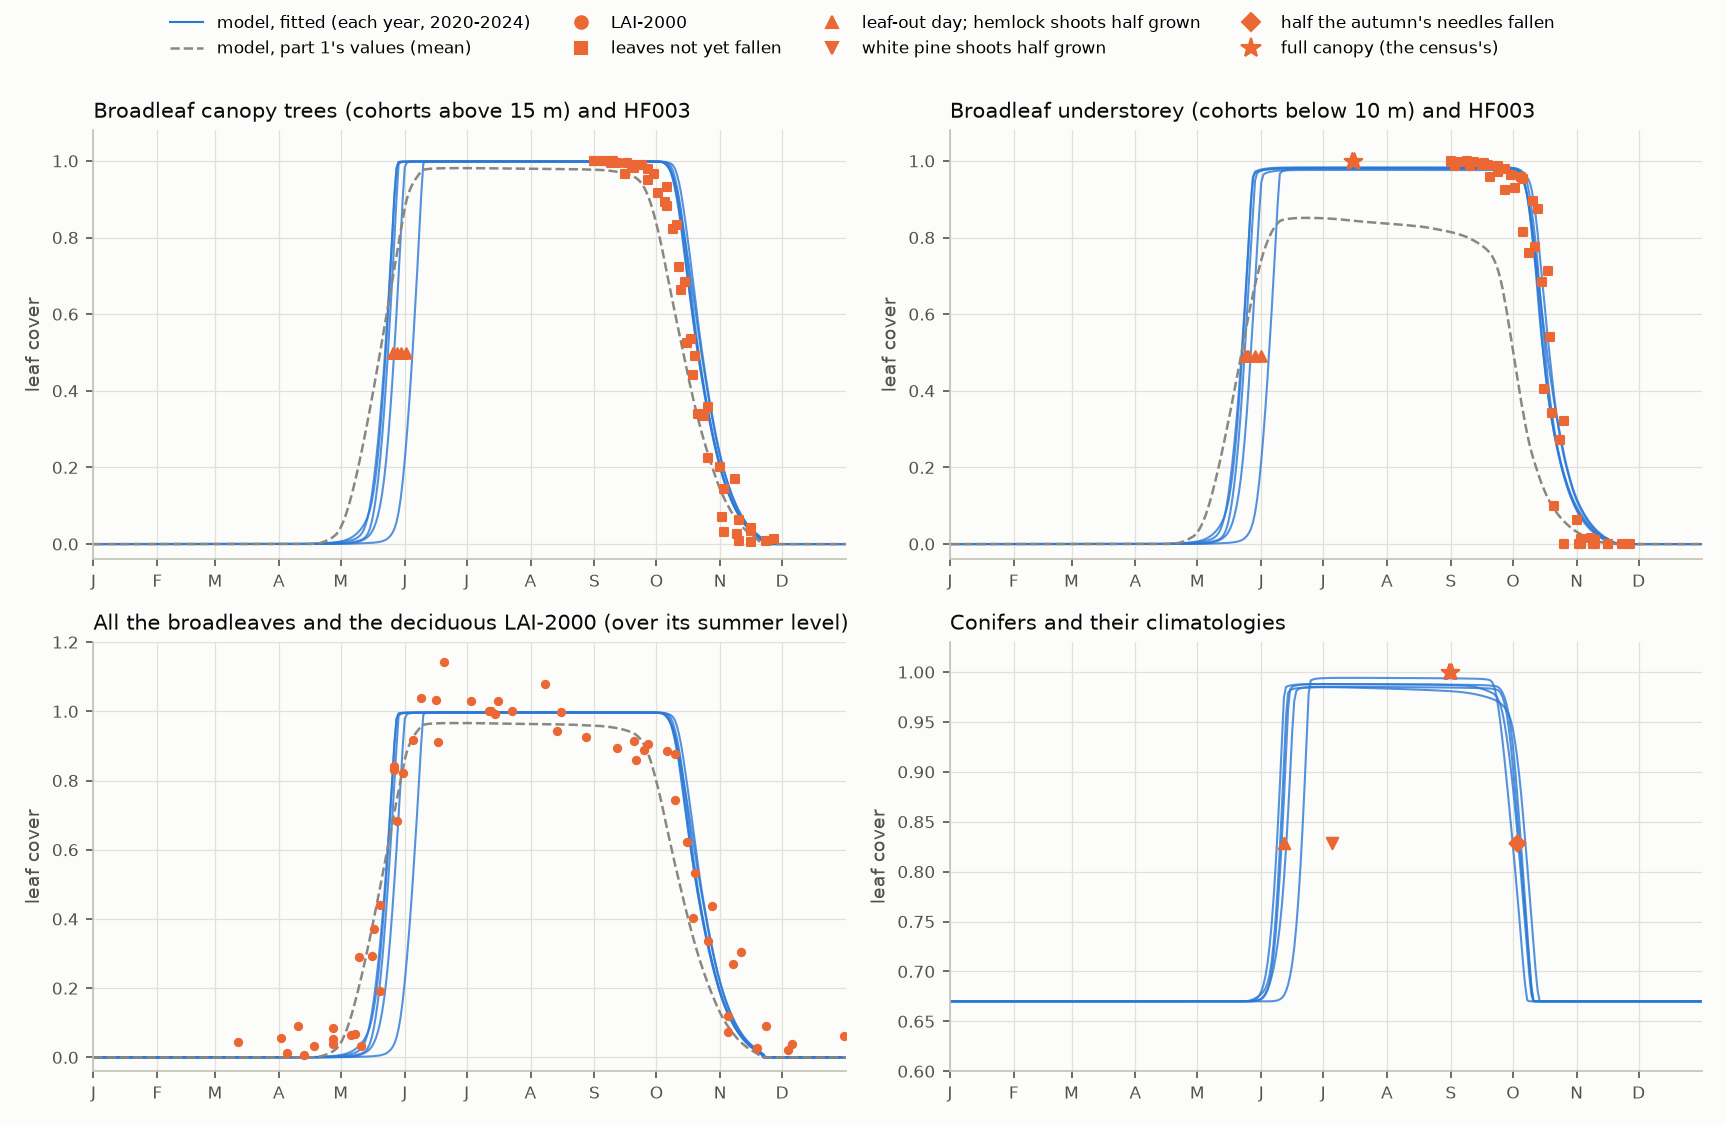
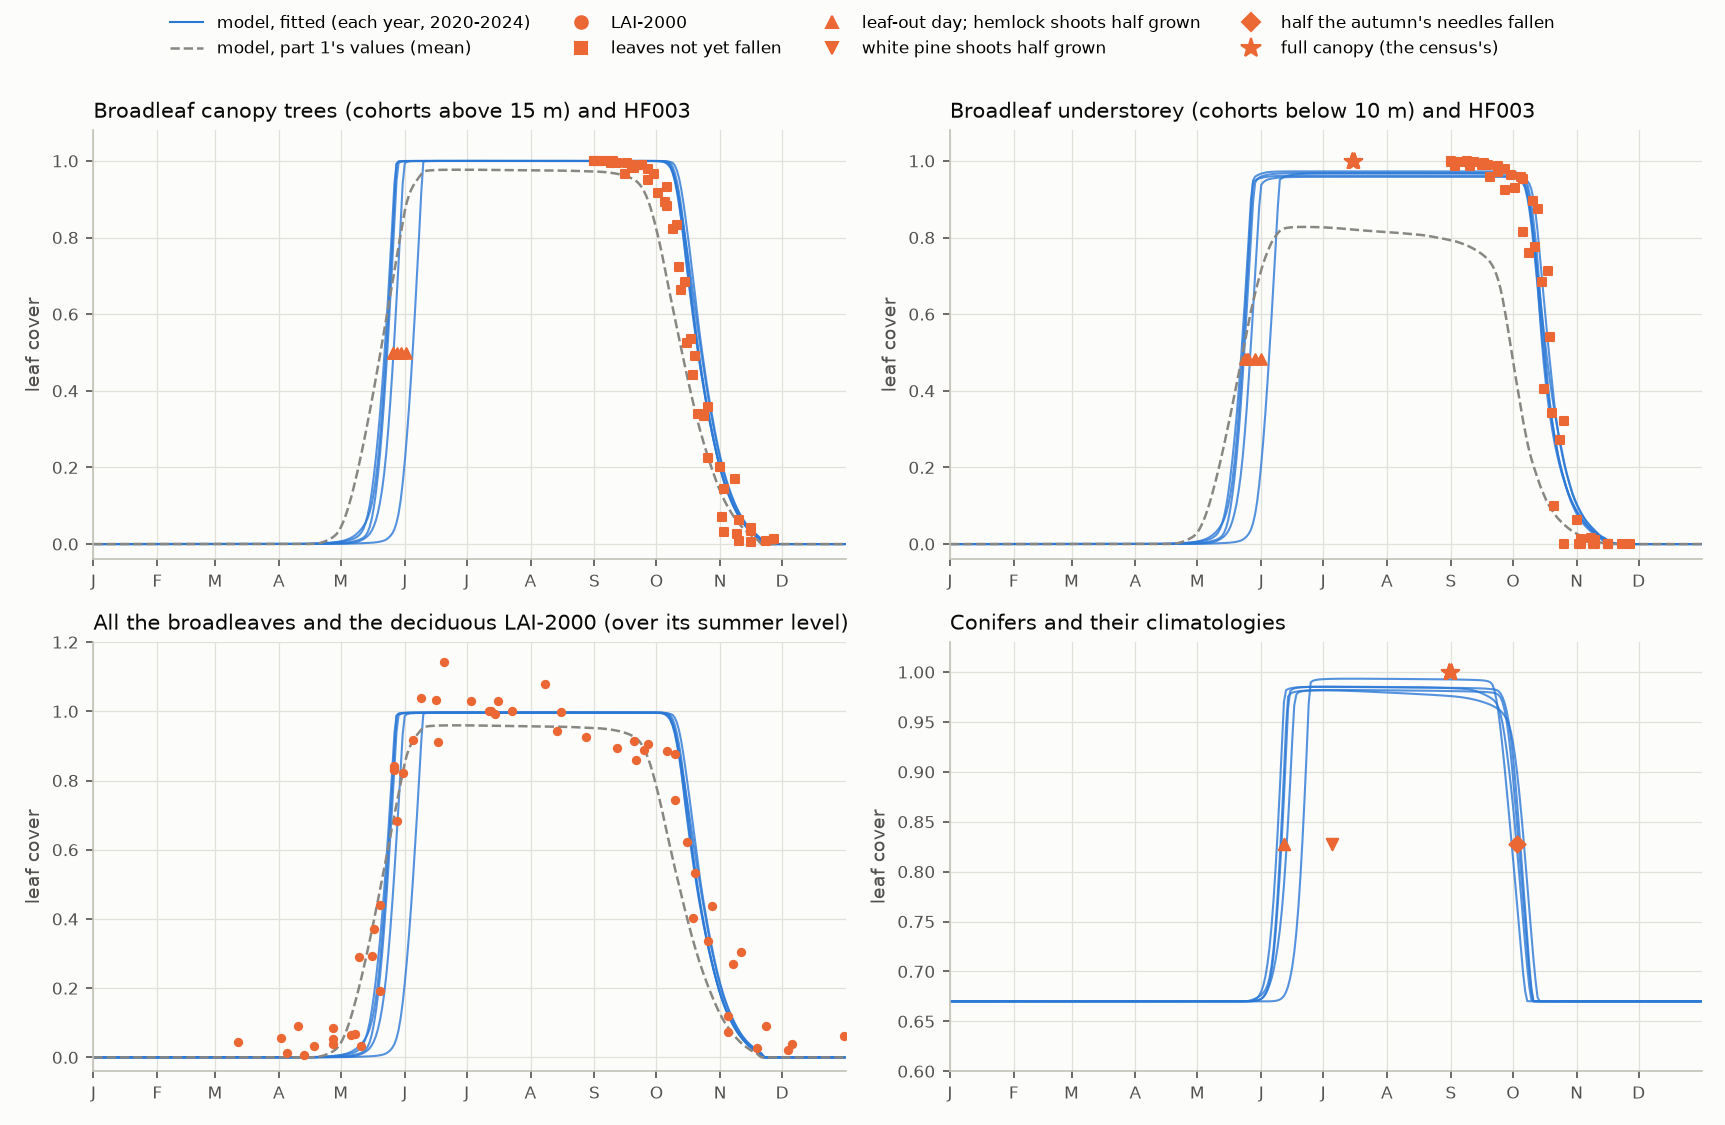
docs(examples): example 02's Harvard stand refit with the ground's surface layers
Part 2 refit on example 04's Harvard stand as the head builds it (the census's lumped trees, example 07's
new lai_b1 and clumping) with scripts/calibrate_phenology, dev build: from the shipped values the coupled
run scores 9.34; four fits move the keys by 0.49, 0.18, 0.09 and 0.12 of their ranges, so the fit does not
settle and the tool keeps the values whose own run scored best (the third, 9.23). The broadleaves flush at
260 K day (264 before) and drop at 185 K day below 292.1 K (169 below 292.0); the conifers lose 0.018 of
their needles a year while flushing (0.0025). The targets move by at most 0.01 of the canopy or 0.4 days.
Example 04's Harvard PFT file carries the values.

Parts 1 and 3 are not changed: part 1 runs the kernel alone (bit for bit, beta against this head), and
part 3's fit stops at its closure check (the grass at the fourth fit's values; README unchanged).

diff --git a/examples/example02_canopy_phenology/README.md b/examples/example02_canopy_phenology/README.md
@@ -130,9 +130,8 @@ python ../../../scripts/calibrate_phenology/calibrate_phenology.py iterate \
 python plot_fit.py                       # harvard_stand.png
 ```
 
-A round is a coupled run of the stand (about 5 minutes) and an offline fit (10–15 minutes) on one
-40-core node. From example 04's values the fit settles in two rounds (31 minutes); from part 1's it
-takes four, about an hour. The fit writes example 04's PFT file with its values to
+A round is a coupled run of the stand (about 5 minutes) and an offline fit (13–15 minutes) on one
+40-core node; from example 04's values the four rounds take 72 minutes. The fit writes example 04's PFT file with its values to
 `../data/harvard_stand_runs/pft_parameters_fitted.toml`; example 04's file carries them.
 
 ### What is fitted
@@ -152,30 +151,32 @@ refill). The tool's README explains each.
 
 | target | cohorts | model − observed (RMSE) |
 |---|---|---|
-| HF003, leaf-out day of the canopy species | broadleaves above 15 m | −2.2 days (3.8) |
-| HF003, leaf-out day of the understorey species | broadleaves below 10 m | −0.5 days (2.5) |
-| HF003, leaves fallen, canopy species | broadleaves above 15 m | −0.06 of the canopy (0.09) |
-| HF003, leaves fallen, understorey species | broadleaves below 10 m | −0.02 (0.07) |
-| full in mid-July | broadleaves below 10 m | −0.02 |
-| LAI-2000, deciduous, over its summer level | all broadleaves | −0.03 (0.13) |
-| EMS baskets, share of the autumn's litter | all broadleaves | +0.06 (0.10) |
+| HF003, leaf-out day of the canopy species | broadleaves above 15 m | −2.3 days (3.9) |
+| HF003, leaf-out day of the understorey species | broadleaves below 10 m | −0.6 days (2.5) |
+| HF003, leaves fallen, canopy species | broadleaves above 15 m | −0.07 of the canopy (0.10) |
+| HF003, leaves fallen, understorey species | broadleaves below 10 m | −0.03 (0.07) |
+| full in mid-July | broadleaves below 10 m | −0.03 |
+| LAI-2000, deciduous, over its summer level | all broadleaves | −0.02 (0.14) |
+| EMS baskets, share of the autumn's litter | all broadleaves | +0.05 (0.09) |
 | canopies lost a year (1) | all broadleaves | +0.01 |
-| MODIS, scaled within each year | the whole stand | +0.05 (0.17) |
-| hemlock shoots half grown (day 163) | conifers | +0.9 days (4.4) |
-| white pine shoots half grown (day 186) | conifers | −22.4 days |
-| half the autumn's needles fallen (day 276) | conifers | +1.2 days (2.4) |
-| needles lost a year (0.35) | conifers | +0.00 |
-| full at the end of August | conifers | −0.01 |
+| MODIS, scaled within each year | the whole stand | +0.05 (0.18) |
+| hemlock shoots half grown (day 163) | conifers | +0.7 days (4.4) |
+| white pine shoots half grown (day 186) | conifers | −22.6 days |
+| half the autumn's needles fallen (day 276) | conifers | +0.8 days (2.2) |
+| needles lost a year (0.35) | conifers | +0.01 |
+| full at the end of August | conifers | −0.02 |
 
 - **The cohorts' own cues change the answer.** With part 1's values (the dashed lines), fitted to the
   site's air and the light above the canopy, the understorey fills only two thirds and falls two to
   three weeks early, because its light cue reads the fewer hours under the canopy. With the cohorts'
-  own cues, the broadleaves need more warmth to flush (264 against 92 K day above 5 °C) and more cold to
-  drop (169 K day below 292.0 K, against 48 below 290.3 K).
+  own cues, the broadleaves need more warmth to flush (260 against 92 K day above 5 °C) and more cold to
+  drop (185 K day below 292.1 K, against 48 below 290.3 K).
 - **The conifers** keep two thirds of their needles from October to June, grow their shoots in June
   and are full by the end of August; the needles fall in early October. White pine's shoots, the
   loosest target (a 20-day spread), lose to hemlock's.
-- **The fit settled**, and the offline stand matched each coupled run's leaf cover to within 0.002.
+- **The fit does not settle in its four rounds:** each moves a key by 0.09–0.49 of its range. The tool keeps
+  the values whose own coupled run scored best, the third's; the table is that run's. The offline stand
+  matched each coupled run's leaf cover to within 0.002.
 
 ## Part 3 — a savanna: Tonzi Ranch
 
